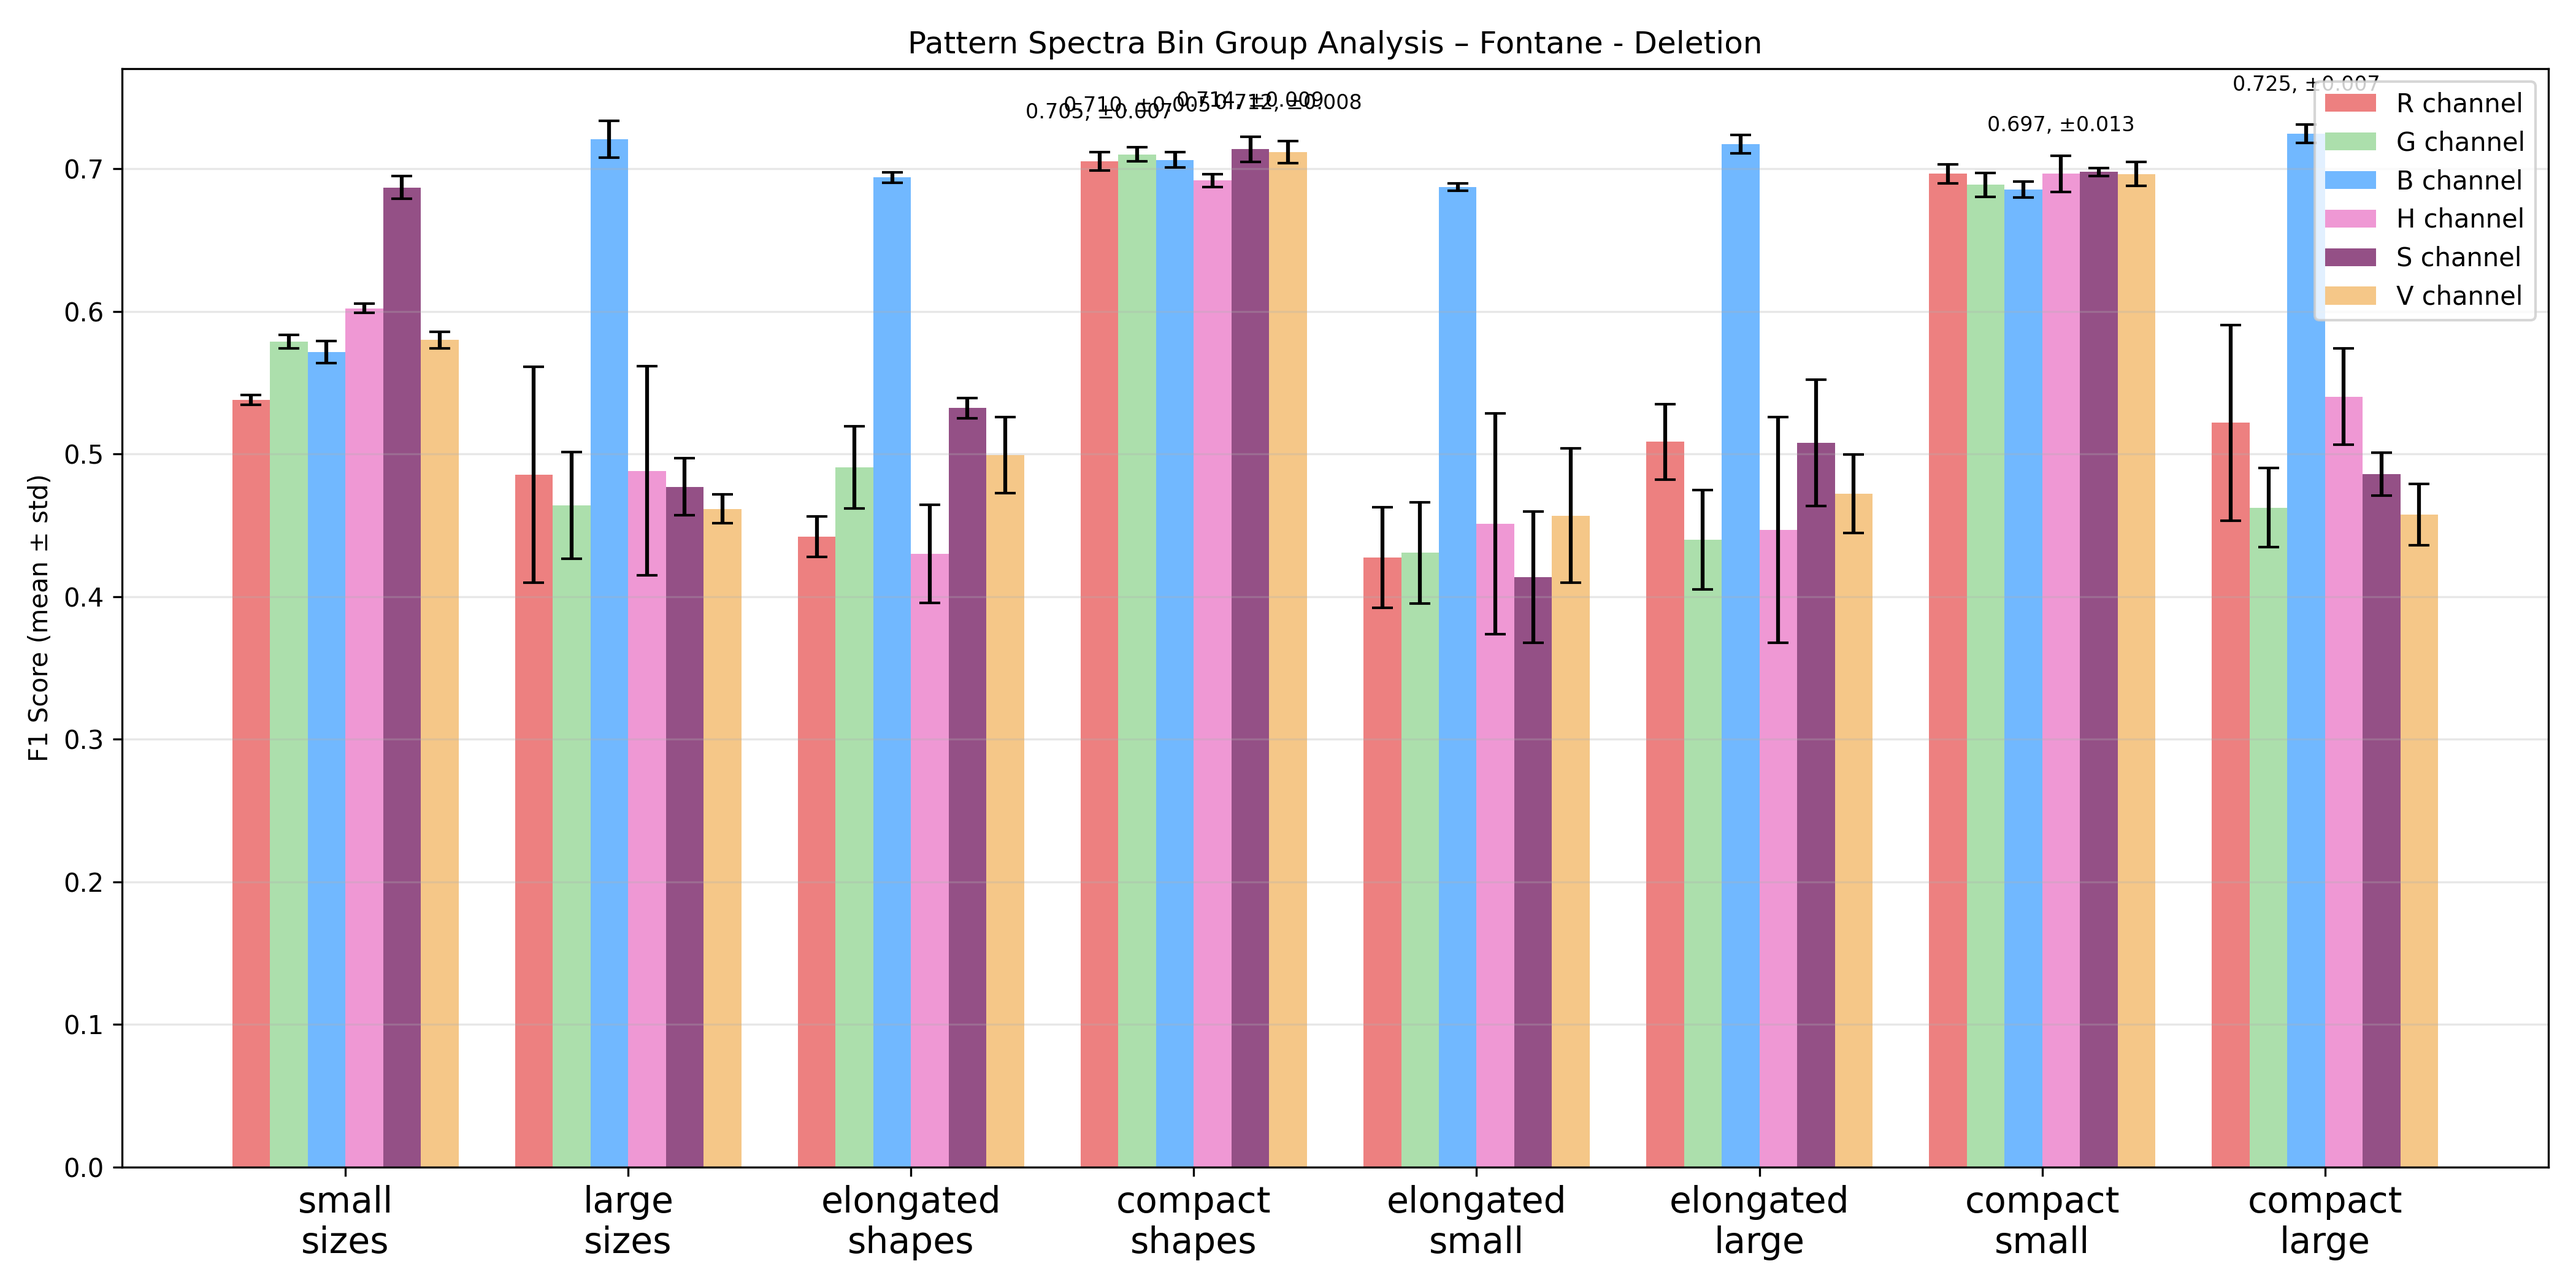
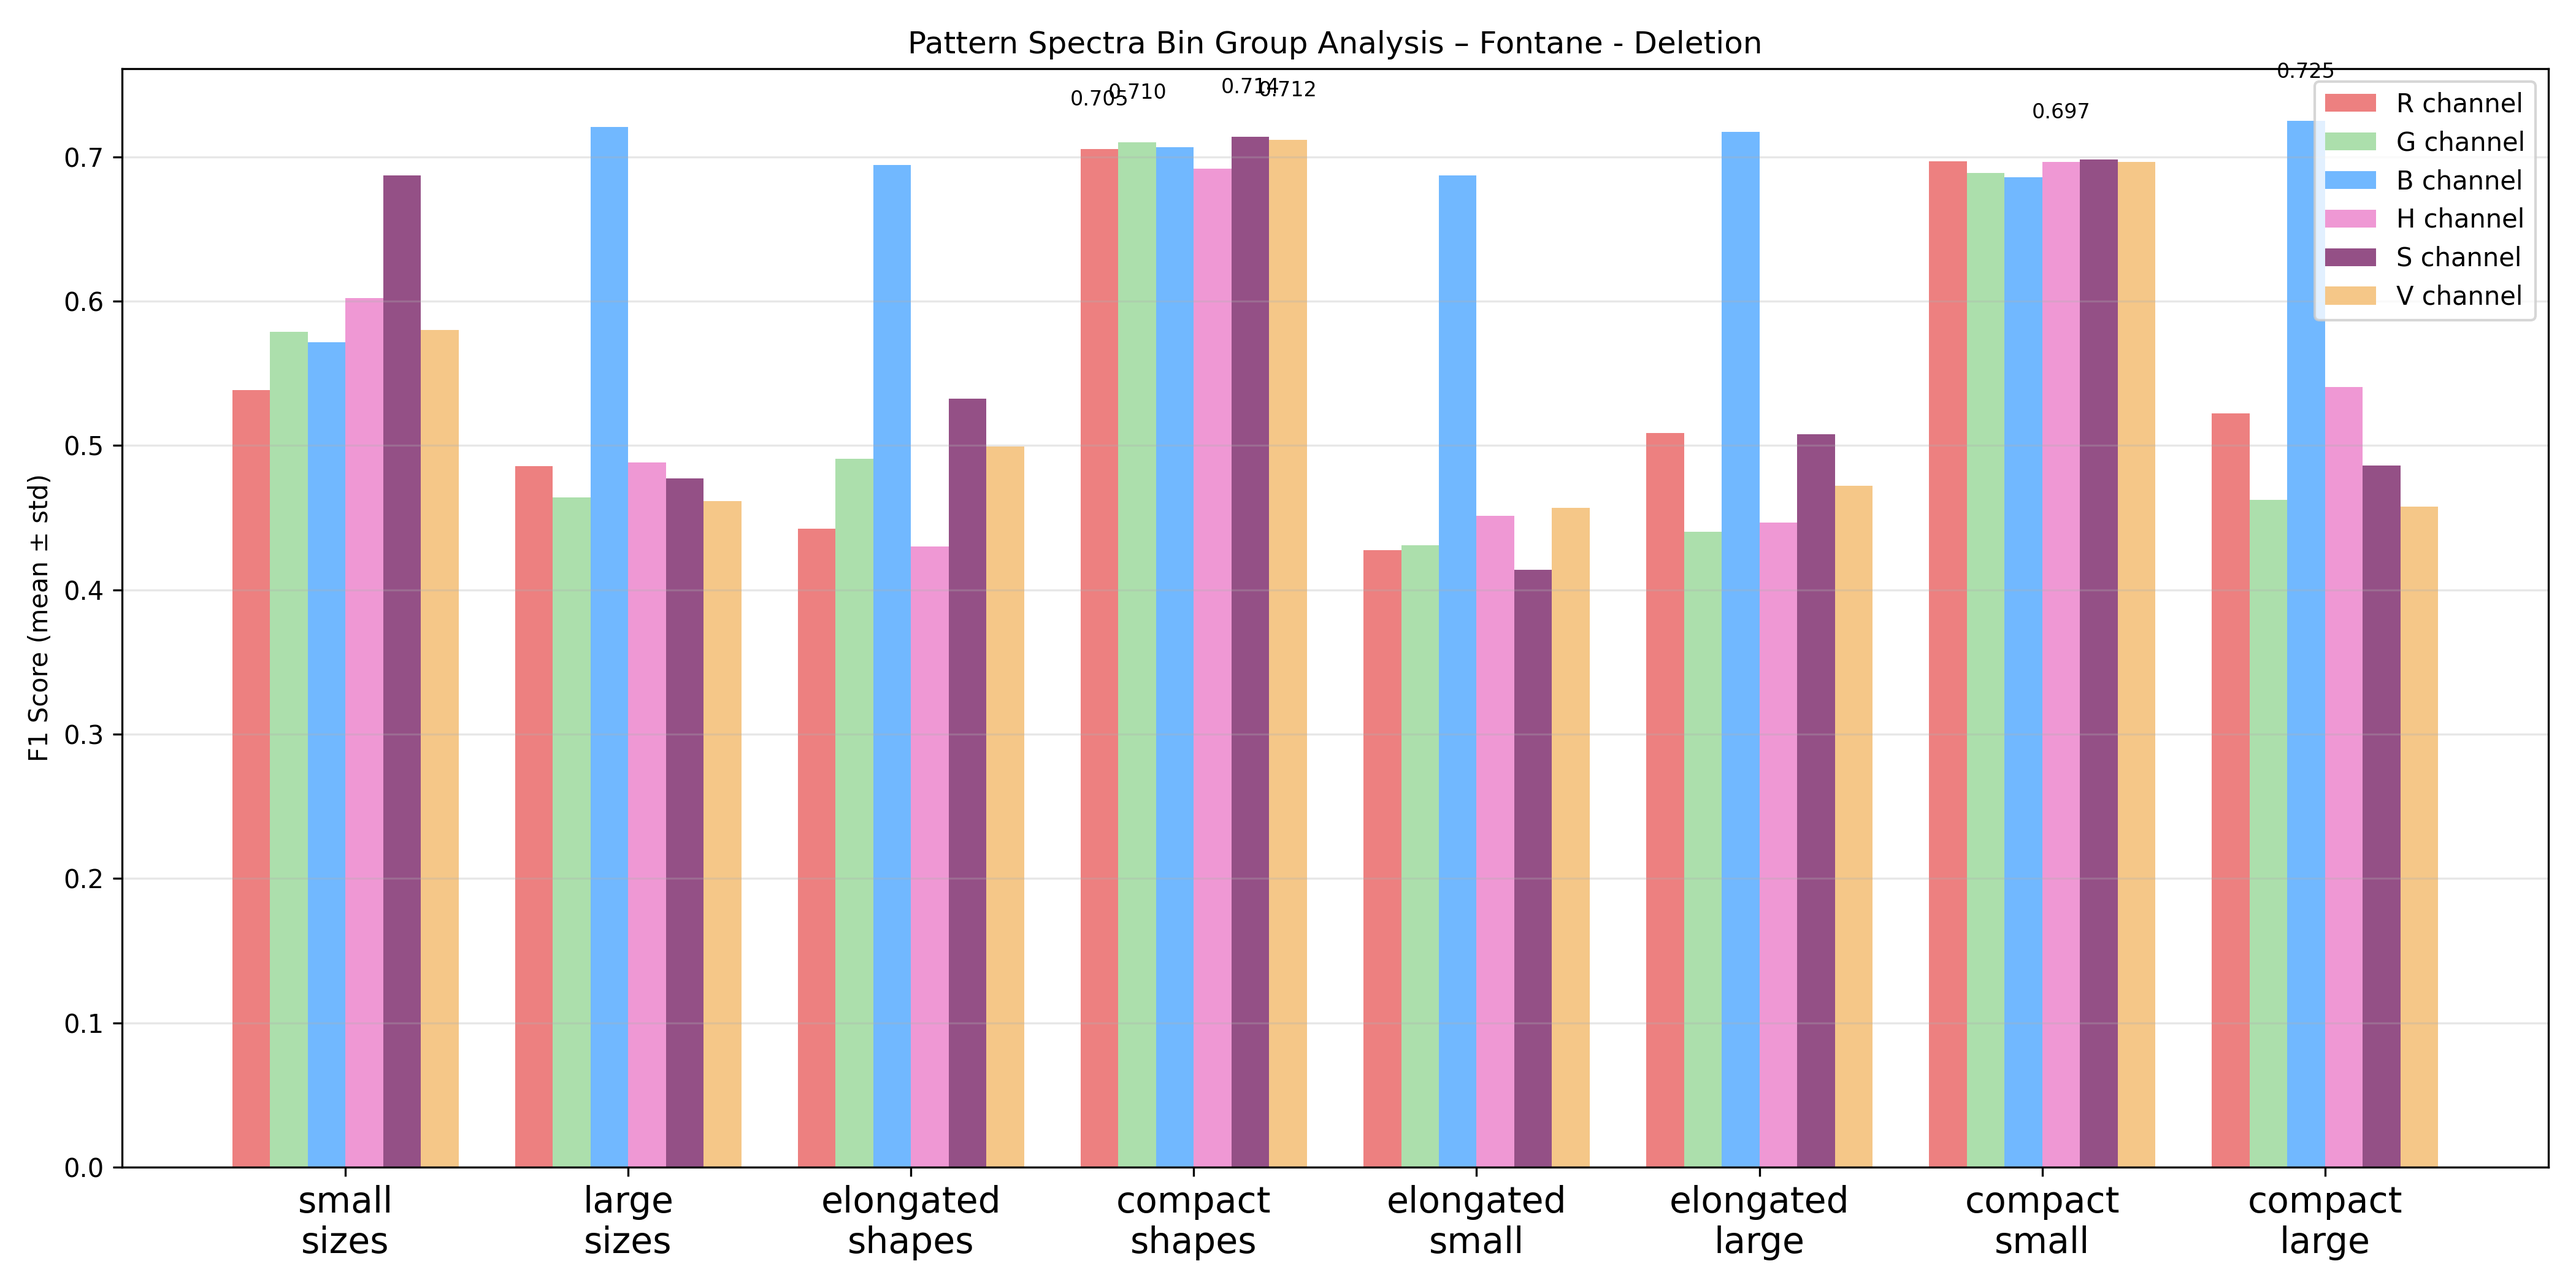
fix plots

diff --git a/Feature_Extraction/plot_bin_results.py b/Feature_Extraction/plot_bin_results.py
@@ -76,15 +76,12 @@ def plot_variant(variant):
     plt.figure(figsize=(14,7))
     for i, ch in enumerate(channels):
         means = []
-        stds = []
         for kind in BIN_GROUPS:
             if ch in data[kind]:
                 m, s = data[kind][ch]
                 means.append(m)
-                stds.append(s)
             else:
                 means.append(np.nan)
-                stds.append(0)
 
         # offset each channel's bar horizontally
         offset = (i - num_channels/2) * width + width/2
@@ -94,7 +91,6 @@ def plot_variant(variant):
             x + offset,
             means,
             width=width,
-            yerr=stds,
             capsize=4,
             label=f"{ch} channel",
             alpha=0.8,
@@ -104,15 +100,12 @@ def plot_variant(variant):
     # annotate bars with mean f1 only for the highest mean F1 per channel
     for i, ch in enumerate(channels):
         means = []
-        stds = []
         for kind in BIN_GROUPS:
             if ch in data[kind]:
                 m, s = data[kind][ch]
                 means.append(m)
-                stds.append(s)
             else:
                 means.append(np.nan)
-                stds.append(0)
 
         max_mean_idx = np.nanargmax(means)
         max_mean = means[max_mean_idx]
@@ -122,7 +115,7 @@ def plot_variant(variant):
         plt.text(
             x[max_mean_idx] + offset,
             max_mean + 0.03,
-            f"{max_mean:.3f}, ±{stds[max_mean_idx]:.3f}",
+            f"{max_mean:.3f}",
             ha="center",
             fontsize=8
         )
